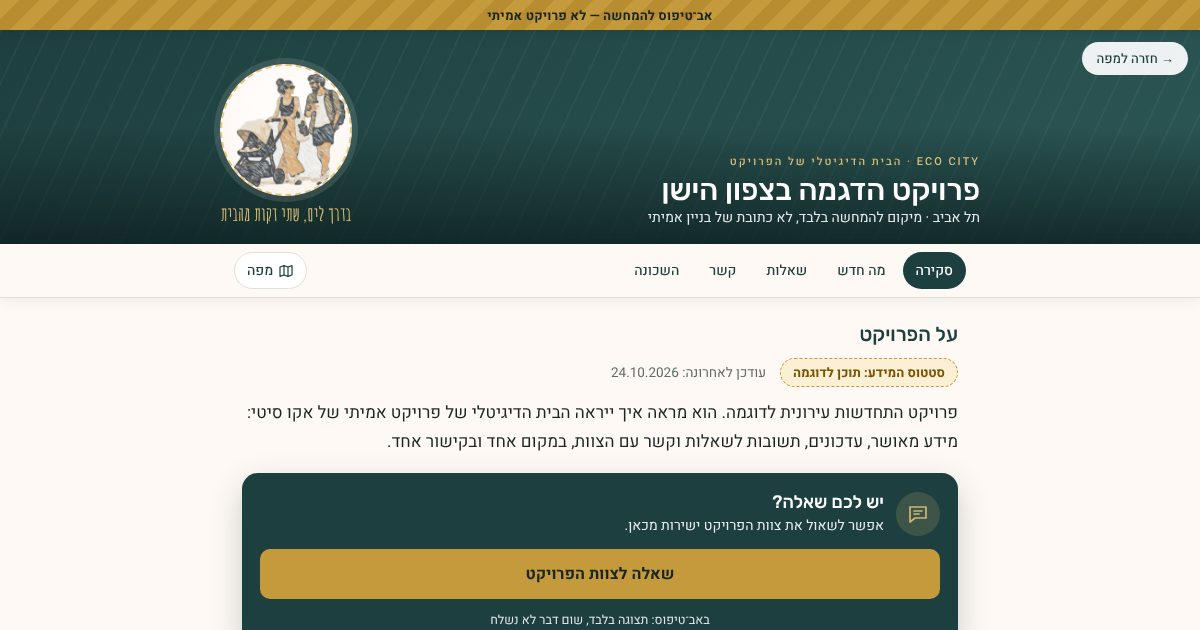
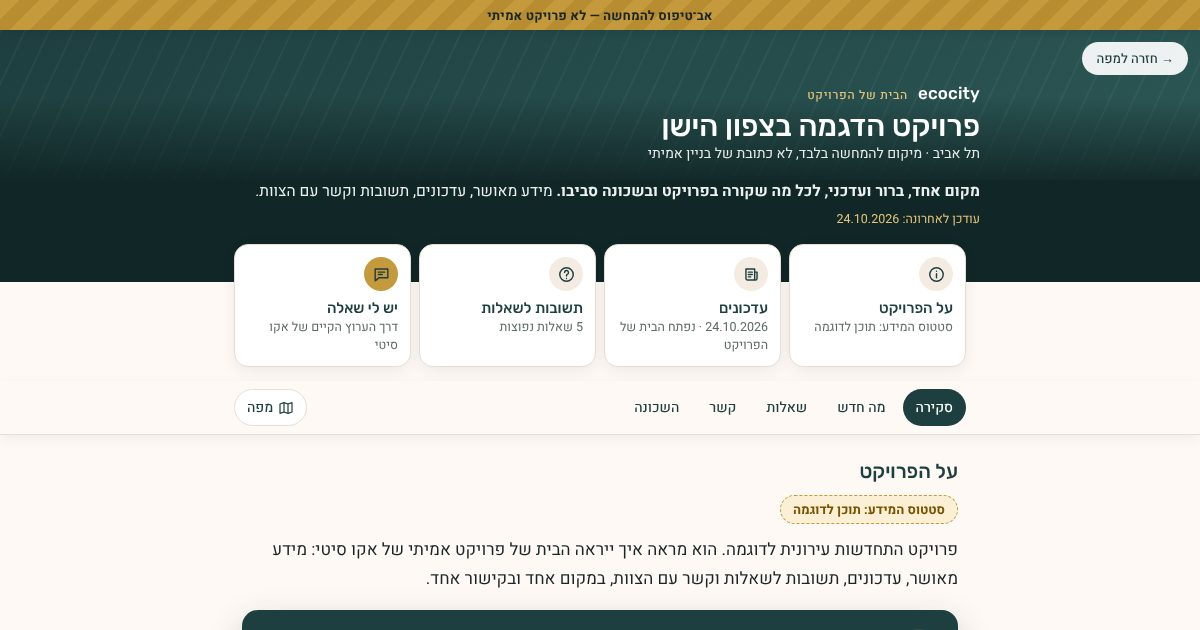
Eco City pilot: align with the proposal, 'הבית של הפרויקט'
- Name and tagline from the business proposal in the home, share pages and README.
- 'יש לי שאלה': phase 1 routes to an existing Eco City channel; the disabled
  form is labelled as a possible phase 2 that is not built. FAQ answer fixed.
- inquiry.note for link mode (what happens after asking, in Eco City's words).
- New WhatsApp preview image without the removed illustration.

Claude-Session: https://claude.ai/code/session_01A8YbD3mtfdMJwuuBXRFk52

Changed region(s): [[0.0, 0.0905, 1.0, 0.9952], [0.2158, 0.3619, 0.37, 0.573], [0.4625, 0.3619, 0.555, 0.4524]]

diff --git a/maps/eco-city-demo/pilot/pilot.js b/maps/eco-city-demo/pilot/pilot.js
@@ -1,4 +1,4 @@
-/* הבית הדיגיטלי של פרויקט: פיילוט קשרי דיירים של אקו סיטי.
+/* הבית של הפרויקט: פיילוט קשרי דיירים של אקו סיטי.
    נטען מ-index.html רק כשבכתובת יש ?pilot=<שם>, וקורא את התוכן מ-pilot/<שם>.json.
    כל טקסט מהקובץ עובר ניקוי, קישורים רק ב-https, ותמונות רק מהתיקיות של המפה.
    אין כאן שליחה של טופס, שמירת נתונים או מדידה: "שאלה לצוות" היא קישור לערוץ מאושר, תצוגה בלבד, או כבויה. */
@@ -41,7 +41,7 @@ function clean(c){
     /* מפגש מוצג רק כשהוא מאושר ועוד לא עבר */
     meetings:arr(c.meetings).map(function(m){m=m||{};return {raw:m.date,date:day(m.date),time:txt(m.time,20),title:txt(m.title,120),where:txt(m.place,120),
       url:link(m.registration),ok:m.approved===true};}).filter(function(m){return m.ok&&m.title&&m.date&&m.raw>=today();}).slice(0,4),
-    ask:{mode:mode,url:link(inq.url),label:txt(inq.label,60)}
+    ask:{mode:mode,url:link(inq.url),label:txt(inq.label,60),note:txt(inq.note,200)}
   };
 }
 function cleanLink(l){l=l||{};var u=link(l.url),t=txt(l.label,60);return u&&t?{url:u,label:t}:null;}
@@ -89,9 +89,10 @@ function render(){
       return '<li class="'+(cur===i?'now':cur!=null&&i<cur?'done':'')+'"'+(cur===i?' aria-current="step"':'')+'><i></i><span>'+h(s)+'</span></li>';}).join('')+'</ol>'+
       (C.stages.note?'<p class="pl-note">'+h(C.stages.note)+'</p>':'')+'</div>';}
   if(C.ask.mode!=='off'){
-    ov+='<div class="pl-ask"><div class="pl-ask-t"><span class="pl-ask-i">'+ic('chat')+'</span><div><b>יש לכם שאלה?</b><span>אפשר לשאול את צוות הפרויקט ישירות מכאן.</span></div></div>'+
-      (C.ask.mode==='link'?'<a class="btn pri" href="'+h(C.ask.url)+'" target="_blank" rel="noopener">'+h(C.ask.label||'שאלה לצוות הפרויקט')+'</a>'
-        :'<button class="btn pri" type="button" data-ask>שאלה לצוות הפרויקט</button><small class="pl-ask-n">באב־טיפוס: תצוגה בלבד, שום דבר לא נשלח</small>')+'</div>';}
+    /* בשלב הראשון שאלה עוברת לערוץ שכבר קיים אצל אקו סיטי. טופס פנייה פרטי הוא שלב נפרד, ומוצג רק כהמחשה */
+    ov+='<div class="pl-ask"><div class="pl-ask-t"><span class="pl-ask-i">'+ic('chat')+'</span><div><b>יש לכם שאלה?</b><span>השאלה עוברת לצוות קשרי הדיירים של אקו סיטי, בערוץ שכבר קיים אצלם.</span></div></div>'+
+      (C.ask.mode==='link'?'<a class="btn pri" href="'+h(C.ask.url)+'" target="_blank" rel="noopener">'+h(C.ask.label||'יש לי שאלה')+'</a>'+(C.ask.note?'<small class="pl-ask-n">'+h(C.ask.note)+'</small>':'')
+        :'<button class="btn pri" type="button" data-ask>יש לי שאלה</button><small class="pl-ask-n">בהדגמה: הכפתור מסביר איך זה יעבוד. שום דבר לא נשלח</small>')+'</div>';}
   out+=sec('pl-overview','על הפרויקט',ov+stg);tabs.push(['pl-overview','סקירה']);
   /* מה חדש */
   if(C.updates.length){
@@ -127,15 +128,16 @@ function render(){
   if(lu)tl.push(['pl-updates','news','עדכונים',(lu.date?lu.date+' · ':'')+lu.title]);
   if(C.meetings.length)tl.push(['pl-meetings','cal','מפגש קרוב',C.meetings[0].date+' · '+C.meetings[0].title]);
   if(C.faq.length)tl.push(['pl-faq','help','תשובות לשאלות',C.faq.length+' שאלות נפוצות']);
-  if(C.ask.mode!=='off')tl.push(['','chat','שאלה לצוות','פנייה ישירה לצוות הפרויקט']);
+  if(C.ask.mode==='link')tl.push(['pl-overview','chat','יש לי שאלה','דרך הערוץ הקיים של אקו סיטי']);
+  else if(C.ask.mode!=='off')tl.push(['','chat','יש לי שאלה','דרך הערוץ הקיים של אקו סיטי']);
   else if(C.contacts.length||C.links.length)tl.push(['pl-contact','user','קשר עם הצוות','אנשי קשר ומידע רשמי']);
   var tiles='<ul class="pl-tiles" aria-label="מה יש כאן">'+tl.map(function(t){return '<li><button type="button" '+(t[0]?'data-go="'+t[0]+'"':'data-ask')+'><span class="pl-ti">'+ic(t[1])+'</span>'+
     '<span class="pl-tt"><b>'+h(t[2])+'</b><small>'+h(t[3])+'</small></span></button></li>';}).join('')+'</ul>';
 
   var hero='<div class="gal ill pl-hero">'+(C.hero.img?'<figure class="pl-fig"><span class="pl-ring"><img src="'+h(C.hero.img)+'" alt=""></span>'+(C.hero.cap?'<figcaption>'+h(C.hero.cap)+'</figcaption>':'')+'</figure>':'')+
-    '<button class="back" type="button">→ חזרה למפה</button><div class="ttl"><div class="pl-brand"><span class="pl-wm" lang="en">ecocity</span><span>הבית הדיגיטלי של הפרויקט</span></div><h2 class="serif">'+h(C.name)+'</h2>'+
+    '<button class="back" type="button">→ חזרה למפה</button><div class="ttl"><div class="pl-brand"><span class="pl-wm" lang="en">ecocity</span><span>הבית של הפרויקט</span></div><h2 class="serif">'+h(C.name)+'</h2>'+
     '<div class="c">'+h([C.city,C.place].filter(Boolean).join(' · '))+'</div></div></div>'+
-    '<div class="pl-promise"><p>כל מה שבעלי הדירות והדיירים צריכים לדעת על הפרויקט: מידע מאושר, עדכונים, תשובות וקשר עם הצוות.</p>'+
+    '<div class="pl-promise"><p><b>מקום אחד, ברור ועדכני, לכל מה שקורה בפרויקט ובשכונה סביבו.</b> מידע מאושר, עדכונים, תשובות וקשר עם הצוות.</p>'+
     (C.updated?'<span>עודכן לאחרונה: '+h(C.updated)+'</span>':'')+'</div>';
   var nav='<nav class="pl-tabs" aria-label="חלקי העמוד"><div class="pl-tabs-in">'+tabs.map(function(t,i){return '<button type="button" data-go="'+t[0]+'"'+(i?'':' aria-current="true"')+'>'+t[1]+'</button>';}).join('')+
     '<button type="button" class="pl-back2" data-hood aria-label="חזרה למפה, עם השכונה">'+ic('map')+'<span>מפה</span></button></div></nav>';
@@ -167,20 +169,22 @@ function open(){
 /* חזרה למפה עם הקווים לשכונה, כדי לראות איפה הבית ביחס למקומות סביבו */
 function toHood(){E.closeD();var anchors=drawHood();E.fly(PP,anchors);if(pin)pin.classList.add('on');}
 
-/* "שאלה לצוות": תצוגה של הטופס בלבד. השדות כבויים, אין form ואין שליחה */
+/* "יש לי שאלה" בהדגמה: מסביר שבשלב הראשון השאלה עוברת לערוץ קיים של אקו סיטי,
+   ומראה איך עשוי להיראות טופס פנייה בשלב שני, אם יאושר. השדות כבויים, אין form ואין שליחה */
 function askOpen(){
   askClose();
   var s=document.createElement('div');s.className='pl-sheet';s.setAttribute('role','dialog');s.setAttribute('aria-modal','true');s.setAttribute('aria-labelledby','pl-sheet-h');
-  s.innerHTML='<div class="pl-sheet-in"><div class="pl-sheet-top"><h3 id="pl-sheet-h">שאלה לצוות הפרויקט</h3><button type="button" class="pl-x" aria-label="סגירה">✕</button></div>'+
-    '<p class="pl-warn">'+ic('lock')+'<span>זו תצוגה של הטופס. באב־הטיפוס השליחה כבויה, ושום פרט לא נשמר או נשלח.</span></p>'+
+  s.innerHTML='<div class="pl-sheet-in"><div class="pl-sheet-top"><h3 id="pl-sheet-h">יש לי שאלה</h3><button type="button" class="pl-x" aria-label="סגירה">✕</button></div>'+
+    '<div class="pl-now"><b>בשלב הראשון</b><p>הכפתור מפנה לערוץ שצוות קשרי הדיירים של אקו סיטי כבר עובד איתו, למשל טלפון, מייל או וואטסאפ, עם משפט קצר על מה קורה אחרי הפנייה. אקו סיטי קובעת את הערוץ ואת הנוסח.</p></div>'+
+    '<div class="pl-later"><b>שלב שני, אם יאושר: טופס פנייה פרטי</b>'+
+    '<p class="pl-warn">'+ic('lock')+'<span>כך עשוי להיראות טופס הפנייה בשלב השני, אם יאושר. הוא עדיין לא נבנה, וכרגע שום דבר לא נשלח או נשמר.</span></p>'+
     '<div class="pl-fields" aria-disabled="true">'+
       '<label>שם<input type="text" disabled placeholder="השם שלך"></label>'+
       '<label>טלפון או מייל לחזרה<input type="text" disabled placeholder="איך לחזור אליך"></label>'+
       '<label>הקשר שלי לפרויקט<select disabled><option>בעל/ת דירה</option><option>שוכר/ת</option><option>אחר</option></select></label>'+
       '<label>השאלה<textarea disabled rows="3" placeholder="מה תרצו לשאול?"></textarea></label>'+
     '</div>'+
-    '<div class="pl-next"><b>בגרסה הפעילה</b><ul><li>השאלה מגיעה רק לצוות קשרי הדיירים, ולא מתפרסמת בשום מקום.</li><li>מקבלים מספר פנייה ואישור שהיא התקבלה.</li><li>אוספים רק את מה שצריך כדי לחזור אליכם.</li></ul></div>'+
-    '<button type="button" class="btn pri" disabled>שליחה (כבויה באב־טיפוס)</button></div>';
+    '<button type="button" class="btn pri" disabled>שליחה (שלב שני, לא פעיל)</button></div></div>';
   s.addEventListener('click',function(e){if(e.target===s||e.target.closest('.pl-x'))askClose();});
   det.appendChild(s);var x=s.querySelector('.pl-x');if(x)x.focus();
 }

diff --git a/maps/eco-city-demo/home/demo/index.html b/maps/eco-city-demo/home/demo/index.html
@@ -5,25 +5,25 @@
 <meta name="viewport" content="width=device-width, initial-scale=1">
 <meta name="robots" content="noindex">
 <!-- נוצר על ידי tools/build-pilot-share.mjs מתוך pilot/demo.json. לא לערוך ביד.
-     התגיות כאן הן מה שוואטסאפ מציג. דפדפן רגיל עובר מיד לבית הדיגיטלי של הפרויקט, בלי לעבור דרך המפה. -->
-<title>Eco City · הבית הדיגיטלי של פרויקט ההדגמה (אב־טיפוס)</title>
-<meta name="description" content="אב־טיפוס להמחשה: מידע על הפרויקט, עדכונים, תשובות לשאלות וקשר עם הצוות, בקישור אחד מהטלפון.">
+     התגיות כאן הן מה שוואטסאפ מציג. דפדפן רגיל עובר מיד לבית של הפרויקט, בלי לעבור דרך המפה. -->
+<title>Eco City · הבית של הפרויקט (אב־טיפוס)</title>
+<meta name="description" content="מקום אחד, ברור ועדכני, לכל מה שקורה בפרויקט ובשכונה סביבו. אב־טיפוס להמחשה, עם תוכן לדוגמה.">
 <meta property="og:type" content="website">
 <meta property="og:locale" content="he_IL">
 <meta property="og:site_name" content="Eco City">
-<meta property="og:title" content="Eco City · הבית הדיגיטלי של פרויקט ההדגמה">
-<meta property="og:description" content="אב־טיפוס להמחשה: מידע על הפרויקט, עדכונים, תשובות לשאלות וקשר עם הצוות, בקישור אחד מהטלפון.">
+<meta property="og:title" content="Eco City · הבית של הפרויקט">
+<meta property="og:description" content="מקום אחד, ברור ועדכני, לכל מה שקורה בפרויקט ובשכונה סביבו. אב־טיפוס להמחשה, עם תוכן לדוגמה.">
 <meta property="og:url" content="https://osimkehila.co.il/maps/eco-city-demo/home/demo/">
 <meta property="og:image" content="https://osimkehila.co.il/maps/eco-city-demo/home/demo/preview.jpg">
 <meta property="og:image:width" content="1200">
 <meta property="og:image:height" content="630">
-<meta property="og:image:alt" content="הבית הדיגיטלי של פרויקט ההדגמה של אקו סיטי">
+<meta property="og:image:alt" content="הבית של פרויקט ההדגמה של אקו סיטי">
 <meta name="twitter:card" content="summary_large_image">
 <meta name="theme-color" content="#1E3F3F">
 <script>location.replace("../../?pilot=demo&home=1&src=share");</script>
 <style>body{margin:0;min-height:100vh;display:grid;place-items:center;background:#1E3F3F;color:#FFF9F5;font:16px Heebo,Arial,sans-serif;text-align:center}a{color:#E2C27A}</style>
 </head>
 <body>
-<p>פותחים את הבית הדיגיטלי של הפרויקט…<br><a href="../../?pilot=demo&amp;home=1&amp;src=share">אם זה לא קורה, לחצו כאן</a></p>
+<p>פותחים את הבית של הפרויקט…<br><a href="../../?pilot=demo&amp;home=1&amp;src=share">אם זה לא קורה, לחצו כאן</a></p>
 </body>
 </html>

diff --git a/maps/eco-city-demo/home/index.html b/maps/eco-city-demo/home/index.html
@@ -6,18 +6,18 @@
 <meta name="robots" content="noindex">
 <!-- כתובת השיתוף של אב־הטיפוס: התגיות כאן הן מה שוואטסאפ מציג בתצוגה המקדימה (הוא לא מריץ JavaScript).
      דפדפן רגיל עובר מיד למפה עם ?pilot=demo. הבית של פרויקט ההדגמה נפתח שם רק בלחיצה. -->
-<title>Eco City · הבית הדיגיטלי של הפרויקט (אב־טיפוס)</title>
-<meta name="description" content="אב־טיפוס להמחשה: מידע מאושר, עדכונים, שאלות נפוצות וקשר עם צוות הפרויקט, בקישור אחד מהטלפון.">
+<title>Eco City · הבית של הפרויקט (אב־טיפוס)</title>
+<meta name="description" content="מקום אחד, ברור ועדכני, לכל מה שקורה בפרויקט ובשכונה סביבו. אב־טיפוס להמחשה.">
 <meta property="og:type" content="website">
 <meta property="og:locale" content="he_IL">
 <meta property="og:site_name" content="עושים קהילה">
-<meta property="og:title" content="Eco City · הבית הדיגיטלי של הפרויקט">
-<meta property="og:description" content="אב־טיפוס להמחשה: מידע מאושר, עדכונים, שאלות נפוצות וקשר עם צוות הפרויקט, בקישור אחד מהטלפון.">
+<meta property="og:title" content="Eco City · הבית של הפרויקט">
+<meta property="og:description" content="מקום אחד, ברור ועדכני, לכל מה שקורה בפרויקט ובשכונה סביבו. אב־טיפוס להמחשה.">
 <meta property="og:url" content="https://osimkehila.co.il/maps/eco-city-demo/home/">
 <meta property="og:image" content="https://osimkehila.co.il/maps/eco-city-demo/home/preview.jpg">
 <meta property="og:image:width" content="1200">
 <meta property="og:image:height" content="630">
-<meta property="og:image:alt" content="הבית הדיגיטלי של פרויקט ההדגמה של אקו סיטי, על רקע המפה">
+<meta property="og:image:alt" content="הבית של פרויקט ההדגמה של אקו סיטי, על רקע המפה">
 <meta name="twitter:card" content="summary_large_image">
 <meta name="theme-color" content="#1E3F3F">
 <script>location.replace('../?pilot=demo&src=share');</script>

diff --git a/maps/eco-city-demo/index.html b/maps/eco-city-demo/index.html
@@ -316,7 +316,7 @@ a.btn{display:flex;align-items:center;justify-content:center;text-decoration:non
 var PILOT=(location.search.match(/[?&]pilot=([a-z0-9-]{1,40})(?:&|$)/)||[])[1];
 if(!PILOT&&!/[?&]pilot=/.test(location.search))PILOT='demo';
 if(PILOT==='off')PILOT=null;
-if(PILOT){document.documentElement.classList.add('pilot');var plc=document.createElement('link');plc.rel='stylesheet';plc.href='pilot/pilot.css?v=5';document.head.appendChild(plc);}
+if(PILOT){document.documentElement.classList.add('pilot');var plc=document.createElement('link');plc.rel='stylesheet';plc.href='pilot/pilot.css?v=6';document.head.appendChild(plc);}
 var TEAL='#1E3F3F',GOLD='#C59A3C';
 var IC={
  park:'<path d="M12 21v-6"/><path d="M12 15c-4 0-6-2.5-6-5.5S8.5 4 12 3c3.5 1 6 3.5 6 6.5S16 15 12 15z"/><path d="M5 21h14"/>',
@@ -875,7 +875,7 @@ var attr=document.querySelector('.leaflet-control-attribution');if(attr)attr.add
 zcls();layout();
 if(PILOT){window.ECO_PILOT={slug:PILOT,home:/[?&]home=1(?:&|$)/.test(location.search),map:map,A:A,Q:Q,on:on,threads:threads,det:det,svg:svg,warp:warp,walk:walk,nearA:nearA,pickLines:pickLines,thread:thread,
   fly:fly,mark:mark,closeD:closeD,bindD:bindD,listOff:listOff};
-  var pls=document.createElement('script');pls.src='pilot/pilot.js?v=5';document.body.appendChild(pls);}
+  var pls=document.createElement('script');pls.src='pilot/pilot.js?v=6';document.body.appendChild(pls);}
 })();
 </script>
 <script>if("serviceWorker"in navigator)navigator.serviceWorker.register("sw.js").catch(function(){});

diff --git a/maps/eco-city-demo/pilot/pilot.css b/maps/eco-city-demo/pilot/pilot.css
@@ -1,4 +1,4 @@
-/* הבית הדיגיטלי של פרויקט (פיילוט). נטען רק עם ?pilot=. משתמש בצבעים ובגופנים של המפה */
+/* הבית של הפרויקט (פיילוט). נטען רק עם ?pilot=. משתמש בצבעים ובגופנים של המפה */
 :root{--plb:30px;--ok:#2F6B45;--ok-bg:#E2F0E5;--pend:#8A5A00;--pend-bg:#FBEFD5}
 
 /* פס "אב־טיפוס להמחשה" קבוע בראש המסך, מעל הכול. שאר העמוד יורד מתחתיו */
@@ -149,6 +149,9 @@
 .pl-fields{display:flex;flex-direction:column;gap:10px}
 .pl-fields label{display:flex;flex-direction:column;gap:4px;font-size:13.5px;color:var(--teal);font-weight:500}
 .pl-fields :is(input,select,textarea){font:inherit;font-size:15px;font-weight:400;padding:10px 12px;border:1px solid var(--line);border-radius:10px;background:#F1ECE4;color:var(--muted)}
+.pl-now{background:#fff;border:1px solid var(--line);border-radius:12px;padding:12px 14px;font-size:14.5px;line-height:1.6}
+.pl-now b,.pl-later>b{color:var(--teal);font-size:15px}.pl-now p{margin:4px 0 0}
+.pl-later{display:flex;flex-direction:column;gap:10px;border:1px dashed var(--gold);border-radius:12px;padding:12px 14px;background:#FFFCF5}
 .pl-next{background:#fff;border:1px solid var(--line);border-radius:12px;padding:12px 14px;font-size:14px;color:var(--ink)}
 .pl-next b{color:var(--teal)}.pl-next ul{margin:6px 0 0;padding-inline-start:18px;line-height:1.6}
 .pl-sheet .btn[disabled]{opacity:.55;cursor:not-allowed}

diff --git a/maps/eco-city-demo/pilot/README.md b/maps/eco-city-demo/pilot/README.md
@@ -1,13 +1,15 @@
-# הבית הדיגיטלי של פרויקט (פיילוט קשרי דיירים, אקו סיטי)
+# הבית של הפרויקט (פיילוט קשרי דיירים, אקו סיטי)
+
+"מקום אחד, ברור ועדכני, לכל מה שקורה בפרויקט ובשכונה סביבו." השם והמיצוב לפי ההצעה העסקית לאקו סיטי.
 
 אב־טיפוס להמחשה. גם המפה הרגילה (`/maps/eco-city-demo/`) טוענת את פרויקט ההדגמה, כדי שתהיה אליו כניסה ממנה. הבית נפתח רק בלחיצה.
 
 | כתובת | מה נפתח |
 |---|---|
 | `/maps/eco-city-demo/home/demo/` | עמוד השיתוף של הפרויקט לוואטסאפ. תצוגה מקדימה משלו, ומעביר ישר לבית: `?pilot=demo&home=1&src=share` |
-| `/maps/eco-city-demo/?pilot=demo&home=1` | קישור ישיר לבית הדיגיטלי, בלי לעבור דרך המפה. "חזרה למפה" מראה את הבית בתוך השכונה |
+| `/maps/eco-city-demo/?pilot=demo&home=1` | קישור ישיר לבית של הפרויקט, בלי לעבור דרך המפה. "חזרה למפה" מראה את הבית בתוך השכונה |
 | `/maps/eco-city-demo/home/` | כתובת השיתוף הכללית מהאב־טיפוס הראשון. מעבירה למפה (`?pilot=demo&src=share`), והבית נפתח בלחיצה |
-| `/maps/eco-city-demo/?pilot=demo` | המפה בתצוגה הרגילה, עם סמן "פרויקט ההדגמה" וכפתור בפס. הבית הדיגיטלי נפתח רק בלחיצה עליהם |
+| `/maps/eco-city-demo/?pilot=demo` | המפה בתצוגה הרגילה, עם סמן "פרויקט ההדגמה" וכפתור בפס. הבית של הפרויקט נפתח רק בלחיצה עליהם |
 | `/maps/eco-city-demo/` | אותו דבר כמו `?pilot=demo`: המפה, עם הכניסה לפרויקט ההדגמה |
 | `/maps/eco-city-demo/?pilot=off` | המפה בלי הפיילוט, כמו לפני האב־טיפוס |
 
@@ -32,7 +34,7 @@
 - `contacts[]`: `role`, `text`, ולא חובה: `url` ו-`label`. אין לכתוב פרטים של אדם בלי אישור שלו ושל אקו סיטי.
 - `links[]`: קישורים רשמיים (`label`, `url`).
 - `meetings[]`: `date`, `time`, `title`, `place`, `registration` (קישור), `approved`. מפגש מוצג רק עם `"approved": true` ורק עד התאריך שלו.
-- `inquiry.mode`: `off` (מוסתר), `preview` (תצוגה של הטופס, השדות כבויים ושום דבר לא נשלח), או `link` עם `url` לערוץ מאושר וקיים של אקו סיטי.
+- `inquiry.mode`: "יש לי שאלה". `link` לפרויקט אמיתי: `url` לערוץ מאושר וקיים של אקו סיטי, `label`, ו-`note` (משפט על מה קורה אחרי הפנייה, בנוסח של אקו סיטי). `preview` להדגמה בלבד: מסביר את השלב הראשון, ומראה טופס כבוי כהמחשה לשלב שני אפשרי. `off` מסתיר. טופס פנייה פרטי, מספר פנייה ותיבה לצוות הם שלב נפרד, בכפוף לאישור, ולא קיימים כאן.
 
 כל קישור חייב להיות `https://`. קישור אחר פשוט לא מוצג. כל טקסט מוצג כטקסט, גם אם יש בו תגיות.
 
